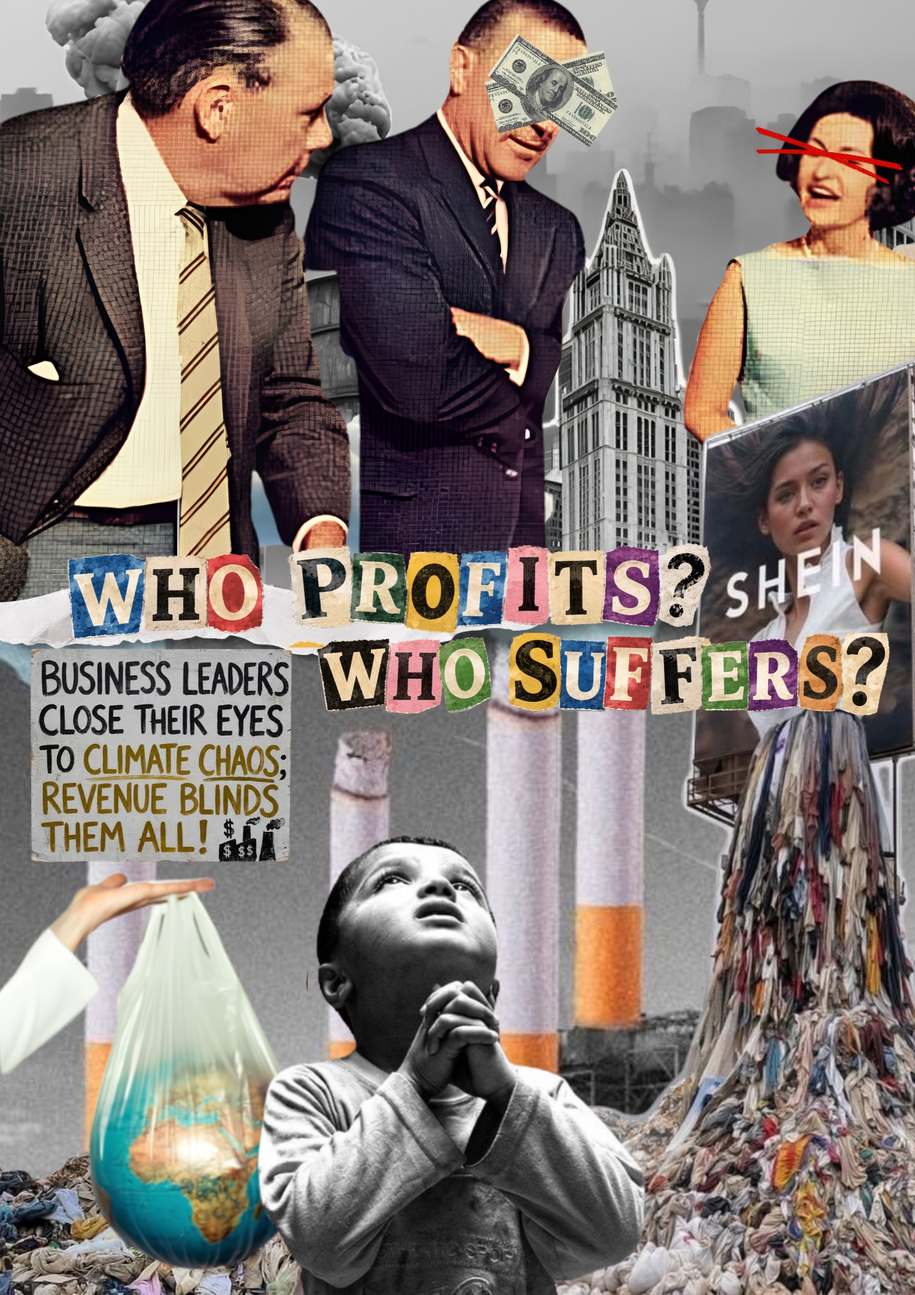
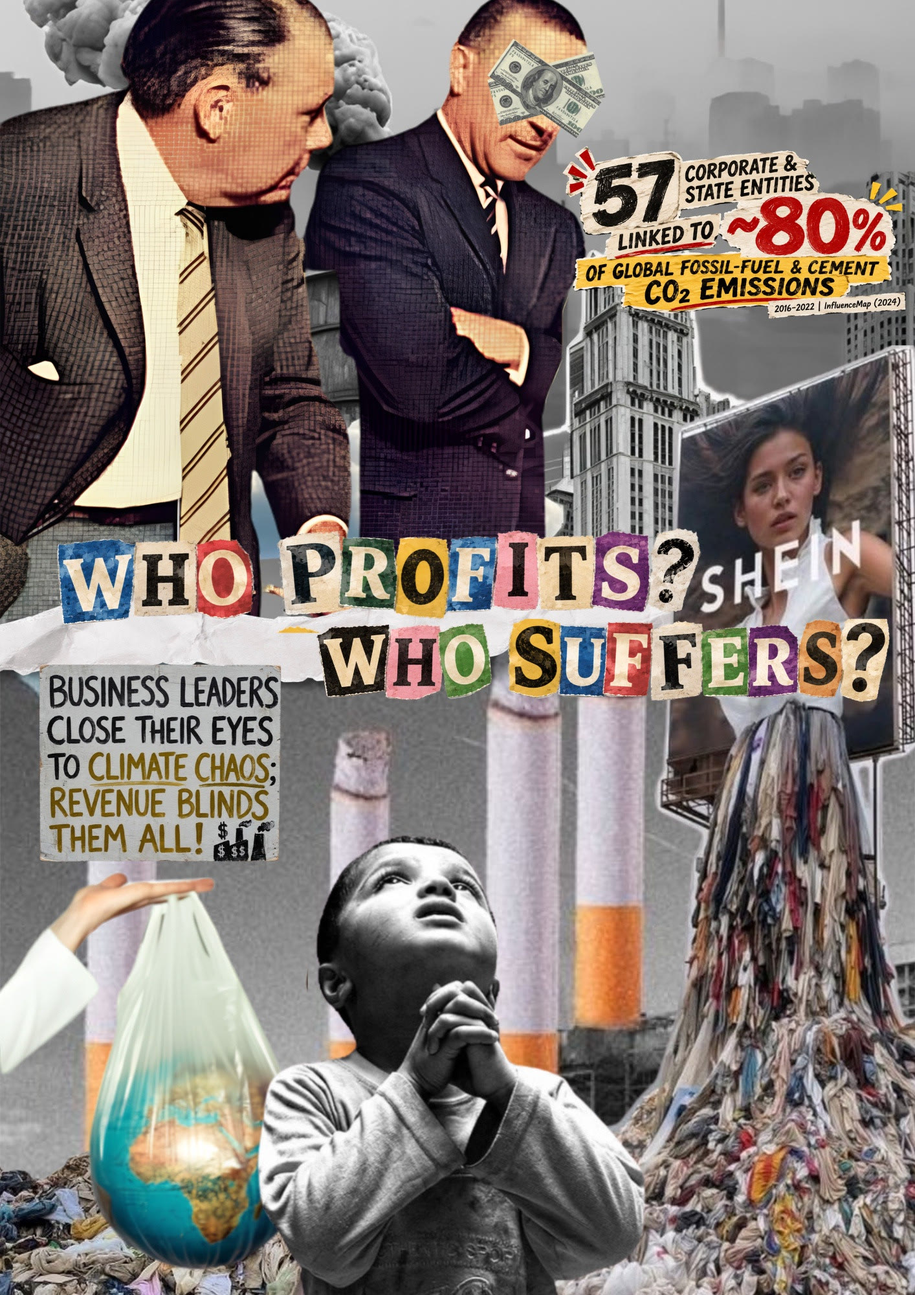
Publish sixth Fall portfolio and revised collage and video

diff --git a/data/2026_fall/anon/p06/essay.html b/data/2026_fall/anon/p06/essay.html
@@ -1,0 +1,1 @@
+<!doctype html><html lang="en"><head><meta charset="utf-8"><meta name="viewport" content="width=device-width,initial-scale=1"><title>Cooling Hong Kong in a Warming World</title><style>body{max-width:760px;margin:3rem auto;padding:0 1.5rem;font:18px/1.7 Georgia,serif}p{overflow-wrap:anywhere}</style></head><body><main><p>CCGL9065 · 26 Fall · Portfolio P06</p><h1>Cooling Hong Kong in a Warming World</h1><p>In 2024, Agence France-Presse reported 84 year old retired janitor Chun Loi sweating in her windowless, 50 sqft Hong Kong home despite running two fans. Her story shows how difficult escaping the heat can be when someone lives in a small, poorly ventilated flat. As temperatures rise, keeping people safe depends on the homes and neighbourhoods they live in.</p><p>Climate change is heating our planet, and 2024 was Earth’s hottest year on record according to CNN. Moreover, in dense cities like Hong Kong, urban design amplifies the problem even further. Concrete buildings and roads absorb heat throughout the day and release it at night. Meanwhile, closely packed towers can block cooling breezes, and limited greenery means less shade and cooling through evaporation. Together, these factors create the phenomena known as the urban heat island, where urban areas remain warmer than nearby areas, especially at night.</p><p>In 2024 alone, the Hong Kong Observatory reported 50 hot nights, where the temperature never dropped below 28 degrees on those nights. Not only does this heat make daily life uncomfortable, it can also threaten people’s health, as they give the body less chance to recover. A 2020 report by CUHK linked hot nights to a 2.4% higher risk of death, and up to 6.7% for five consecutive hot nights. Outdoor workers, older people, those with existing illnesses and residents of poorly ventilated homes are particularly vulnerable as their bodies face greater stress.</p><p>Here’s the catch: the hotter our cities get, the more electricity we use for air conditioning. When fossil fuels supply that electricity, the resulting emissions contribute to further global warming, creating a vicious cycle of rising heat &amp; cooling demand.</p><p>Therefore, we need to break this cycle before our cities become even more dangerous to live in. Hong Kong should focus on two connected priorities: making buildings and streets cooler, and reducing emissions from the energy we use.</p><p>That starts with improving the places where heat already builds up. The government should fund retrofits to older housing, schools, and care homes. External window shades can block sunlight before it heats rooms, while reflective roofs absorb less solar energy. Developers should also demonstrate how new buildings allow airflow and limit overheating before projects receive approval.</p><p>The same approach should also extend to public spaces. Transport and planning authorities should provide shade at exposed bus stops and along busy walking routes. Medellín, Colombia shows what shading can achieve. It added greenery along 18 roads and 12 waterways &amp; city officials reported temperature reductions of more than 2°C (UNEP, 2019). Hong Kong could similarly plant suitable trees along existing streets, then measure the cooling effects before expanding.</p><p>However, even with better urban design, people will still need air conditioning. This brings us to our second goal of reducing emissions from electricity use. The International Energy Agency (2024) reports that highly efficient air conditioning units can use half as much electricity as average models. The government should therefore subsidize replacement of inefficient units for low income households, helping them stay cool while using and spending less on electricity.</p><p>Where that electricity comes from matters too. The government and power companies should invest more in renewable energy, such as solar &amp; wind, and work more with neighbouring regions to secure more renewable electricity. Regional cooperation is particularly important because Hong Kong’s limited space constrains local generation (Environment Bureau, 2021). Doing so would reduce Hong Kong’s reliance on fossil fuels and lower emissions from air conditioning and other everyday activities, helping Hong Kong meet its energy needs while playing its part in combating global warming.</p><p>Striving for change is one thing, but making these improvements brings practical challenges, as they require upfront spending and regular maintenance. Therefore, to manage costs, the government should introduce cooling upgrades gradually and prioritize neighbourhoods most exposed to heat.</p><p>Residents can support these changes as well through simple everyday choices. Closing blinds before direct sunlight enters can reduce cooling demand, while taking public transport can help cut emissions. Students can also join campus greening projects and reduce wasted electricity by switching off lights and air conditioning when study rooms are no longer in use.</p><p>For residents like Chun, these improvements could mean a safer home that costs less to keep cool. By creating cooler neighbourhoods and reducing the emissions that drive warming worldwide, Hong Kong can play its part in tackling climate change while protecting people from the heat they already face.</p><h2>Citations</h2><p>Agence France-Presse. (2024, August 15). Scorching heat magnifies housing crunch for Hong Kong’s elderly. The Standard. https://www.thestandard.com.hk/news/article/219435/Scorching-heat-magnifies-housing-crunch-for-Hong-Kongs-elderly</p><p>Beware bad health from “hot nights.” (2020, September 17). CUHK in Touch. https://cuhkintouch.cpr.cuhk.edu.hk/2020/09/beware-bad-health-from-hot-nights/</p><p>Environment Bureau. (2021). Hong Kong’s climate action plan 2050. Government of the Hong Kong Special Administrative Region. https://www.eeb.gov.hk/sites/default/files/pdf/cap_2050_en.pdf</p><p>Hong Kong Observatory. (n.d.). Urbanization effect. https://www.hko.gov.hk/en/climate_change/urbanization.htm</p><p>Hong Kong Observatory. (2025, January 13). The year’s weather—2024. https://www.hko.gov.hk/en/wxinfo/pastwx/2024/ywx2024.htm</p><p>International Energy Agency. (2024). Energy efficiency 2024. https://www.iea.org/reports/energy-efficiency-2024</p><p>Paddison, L. (2025, January 9). 2024 was the hottest year on record, breaching a critical climate goal and capping 10 years of unprecedented heat. KVIA. https://kvia.com/cnn-other/2025/01/09/2024-was-the-hottest-year-on-record-breaching-a-critical-climate-goal-and-capping-10-years-of-unprecedented-heat/</p><p>United Nations Environment Programme. (2019, July 17). Medellín shows how nature-based solutions can keep people and planet cool. https://www.unep.org/en/news-and-stories/story/medellin-shows-how-nature-based-solutions-can-keep-people-and-planet-cool</p></main></body></html>

diff --git a/exhibition_2026_fall.html b/exhibition_2026_fall.html
@@ -195,13 +195,13 @@ document.addEventListener('DOMContentLoaded', () => {
     <h1 class="ex2026__title">26 Fall <em>Exhibition</em></h1>
     <p class="ex2026__lede">
       A semester's worth of arguments about climate change and what it means to act.
-      Discover the first five portfolios from Fall 2026, with more works to come.
+      Discover the first six portfolios from Fall 2026, with more works to come.
     </p>
     <div class="ex2026__stats">
-      <div class="ex2026__stat"><strong>5</strong>Portfolios</div>
-      <div class="ex2026__stat"><strong>3</strong>Collages</div>
-      <div class="ex2026__stat"><strong>3</strong>Video Essays</div>
-      <div class="ex2026__stat"><strong>4</strong>Reflections</div>
+      <div class="ex2026__stat"><strong>6</strong>Portfolios</div>
+      <div class="ex2026__stat"><strong>4</strong>Collages</div>
+      <div class="ex2026__stat"><strong>4</strong>Video Essays</div>
+      <div class="ex2026__stat"><strong>5</strong>Reflections</div>
     </div>
   </section>
 
